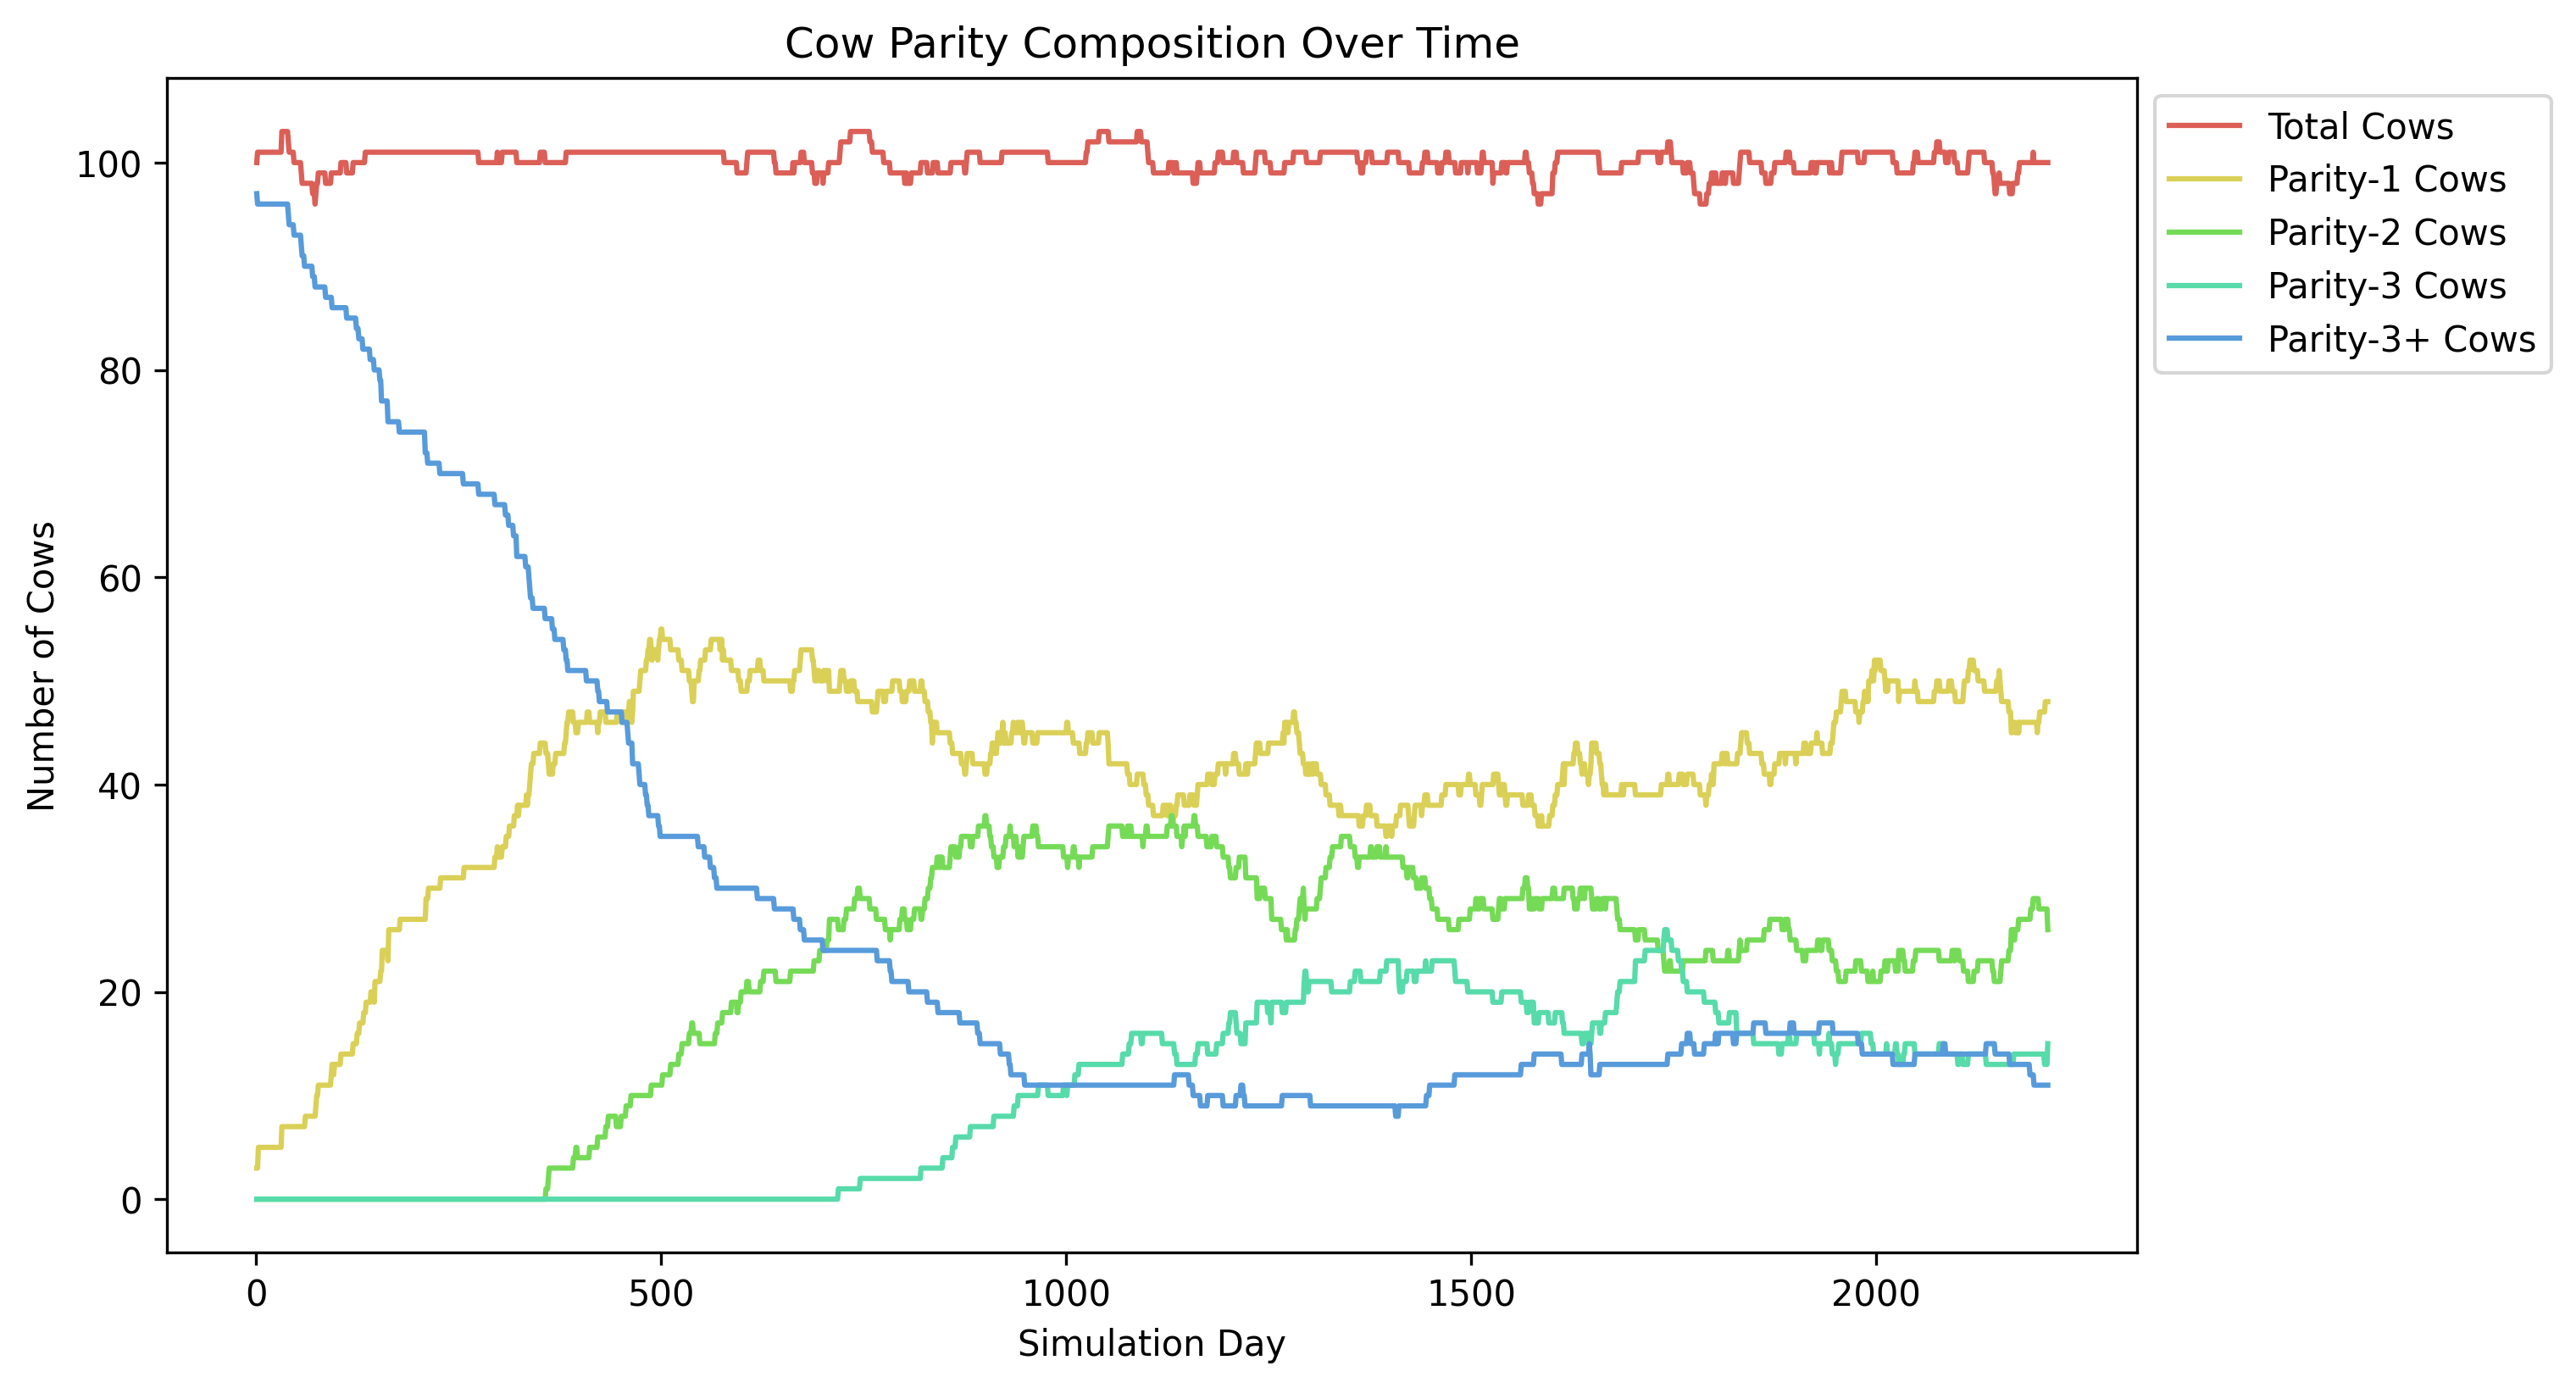
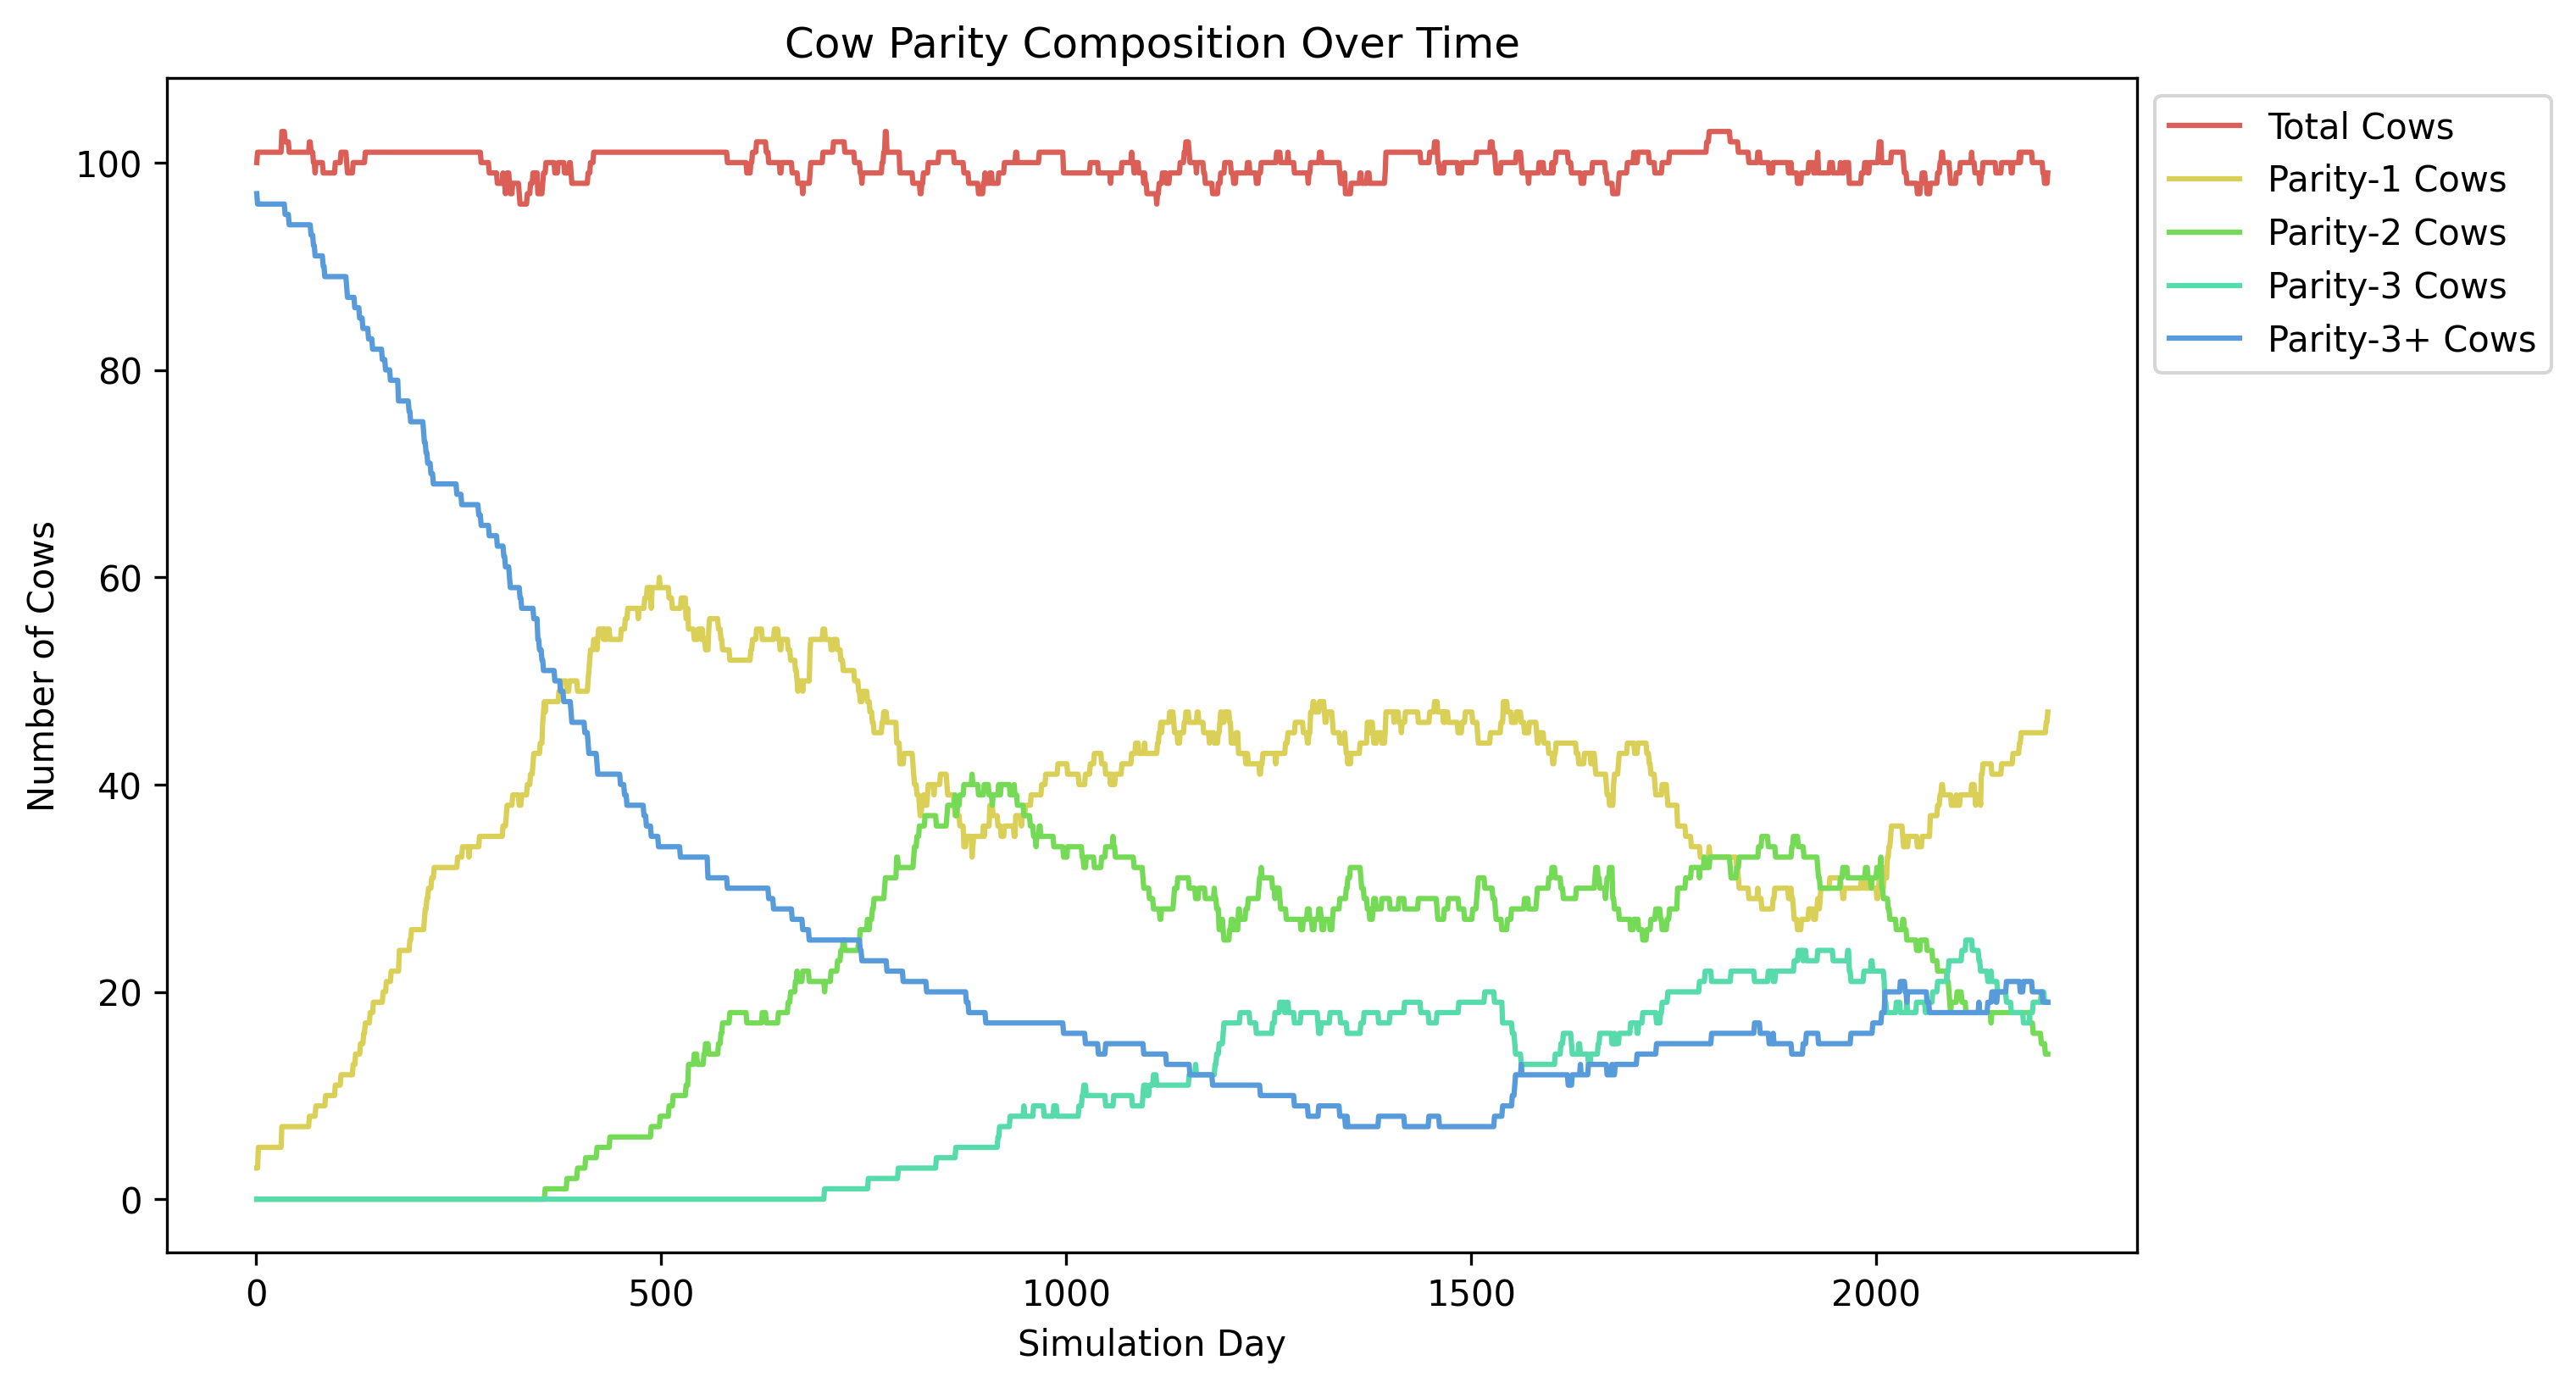
Added more constants to animal constants

diff --git a/RUFAS/routines/animal/life_cycle/heiferII.py b/RUFAS/routines/animal/life_cycle/heiferII.py
@@ -406,12 +406,7 @@ class HeiferII(HeiferI):
 
     def _detect_estrus(self, sim_day: int) -> bool:
         self.estrus_count += 1
-        estrus_detected = self._compare_randomized_rate_less_than(self._get_repro_data('estrus_detection_rate'))
-        if not estrus_detected:
-            return False
-
-        self.log_event(self.days_born, sim_day, const.ESTRUS_DETECTED)
-        return True
+        return self._compare_randomized_rate_less_than(self._get_repro_data('estrus_detection_rate'))
 
     def _decide_on_ai(self, estrus_detected: bool) -> bool:
         if not estrus_detected:
@@ -432,13 +427,17 @@ class HeiferII(HeiferI):
         if self.days_born == self._get_breeding_start_day():
             self._simulate_estrus(self._get_breeding_start_day(), sim_day, const.ESTRUS_DAY_SCHEDULED_NOTE)
         elif self.days_born == self.estrus_day:
-            # self.log_event(, const.ESTRUS_OCCURRED)
+            self.log_event(self.days_born, sim_day, const.ESTRUS_OCCURRED)
+
             estrus_detected = self._detect_estrus(sim_day)
-            # if estrus_detected:
-            #     self.log_event(, const.ESTRUS_DETECTED)
-            should_perform_ai = self._decide_on_ai(estrus_detected)
-            if not should_perform_ai:
-                self._simulate_estrus(self.estrus_day, sim_day, const.BASIC_ESTRUS_NOTE)
+            if estrus_detected:
+                self.log_event(self.days_born, sim_day, const.ESTRUS_DETECTED)
+
+            is_ai_scheduled = self._decide_on_ai(estrus_detected)
+            if is_ai_scheduled:
+                self.log_event(self.days_born, sim_day, const.AI_DAY_SCHEDULED_NOTE)
+            else:
+                self._simulate_estrus(self.days_born, sim_day, const.ESTRUS_DAY_SCHEDULED_NOTE)
 
     # TODO: Where to use this?
     def tai_program_day_after_abortion(self):
@@ -474,6 +473,7 @@ class HeiferII(HeiferI):
                 self._deliver_hormones(actions['deliver_hormones'], self.days_born, sim_day)
             if actions.get('set_ai_day', False):
                 self.ai_day = self.days_born
+                self.log_event(self.days_born, sim_day, const.AI_DAY_SCHEDULED_NOTE)
             if actions.get('set_conception_rate', False):
                 self.conception_rate = self._get_repro_data('estrus_conception_rate')
 
@@ -628,6 +628,7 @@ class HeiferII(HeiferI):
         return self.days_in_preg > 0
 
     def _perform_ai(self, sim_day: int):
+        self.log_event(self.days_born, sim_day, const.AI_PERFORMED_NOTE)
         self.log_event(self.days_born, sim_day, const.INSEMINATED_W_BASE + AnimalBase.config["semen_type"])
         self.semen_num += 1
         self.AI_times += 1

diff --git a/RUFAS/routines/animal/life_cycle/animal_constants.py b/RUFAS/routines/animal/life_cycle/animal_constants.py
@@ -25,6 +25,9 @@ ESTRUS_OCCURRED = "estrus occurred"
 # When simulate_estrus() is called
 ESTRUS_DAY_SCHEDULED_NOTE = "estrus day scheduled"
 
+AI_DAY_SCHEDULED_NOTE = "AI day scheduled"
+AI_PERFORMED_NOTE = "AI performed"
+
 ESTRUS_AFTER_AI_NOTE = "estrus after AI"
 ESTRUS_AFTER_ABORTION_NOTE = "estrus after abortion"
 FIRST_ESTRUS_NOTE = "first estrus"